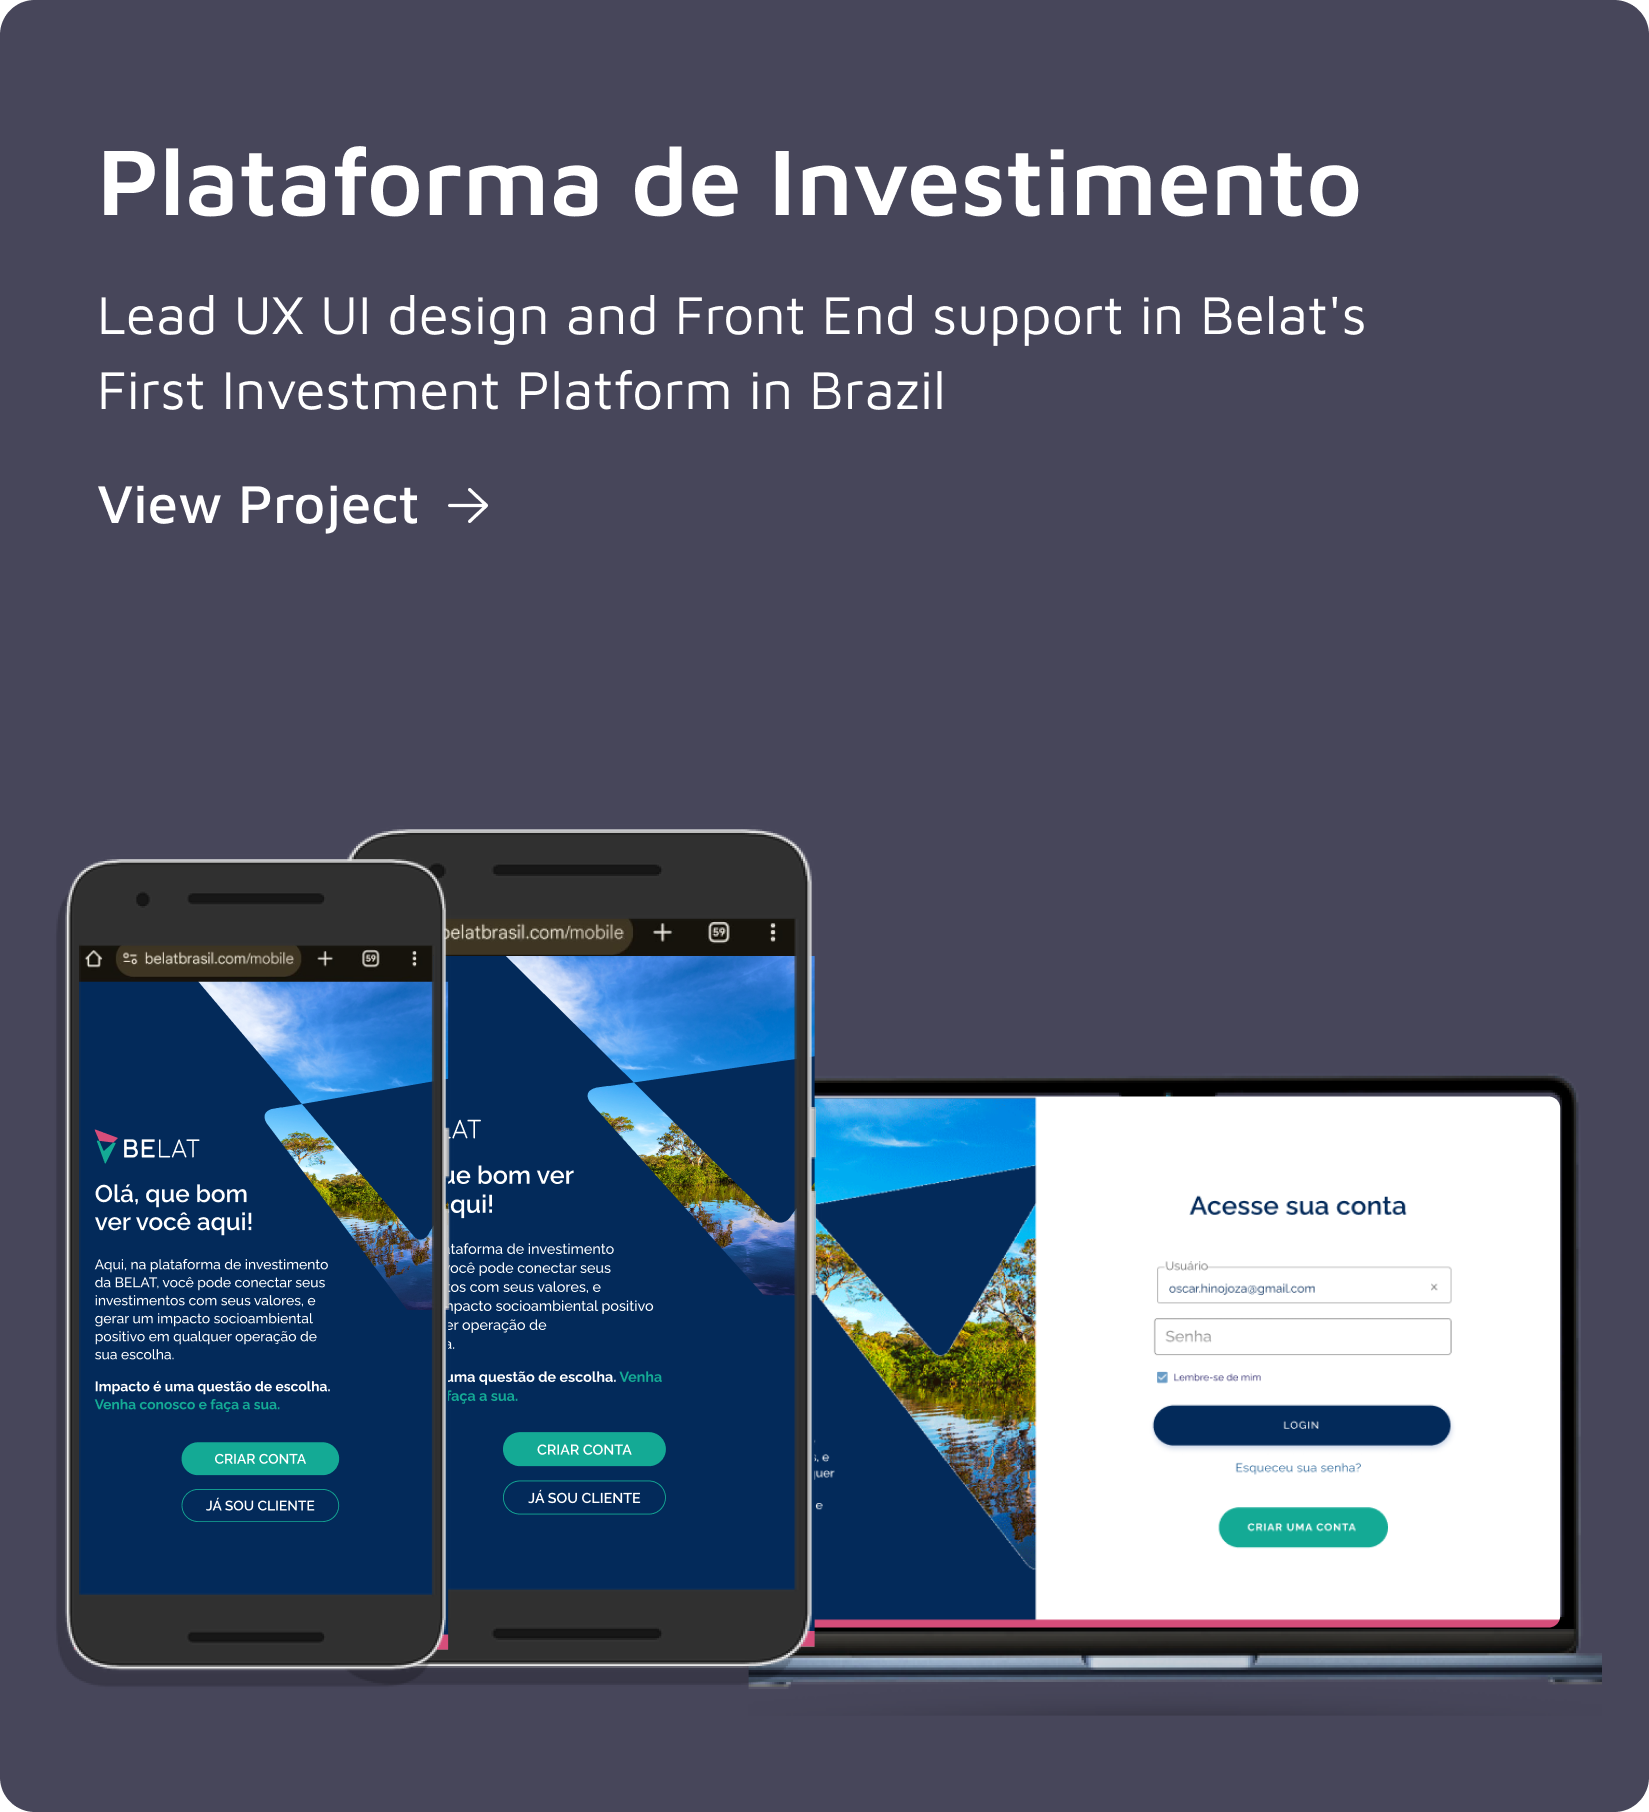
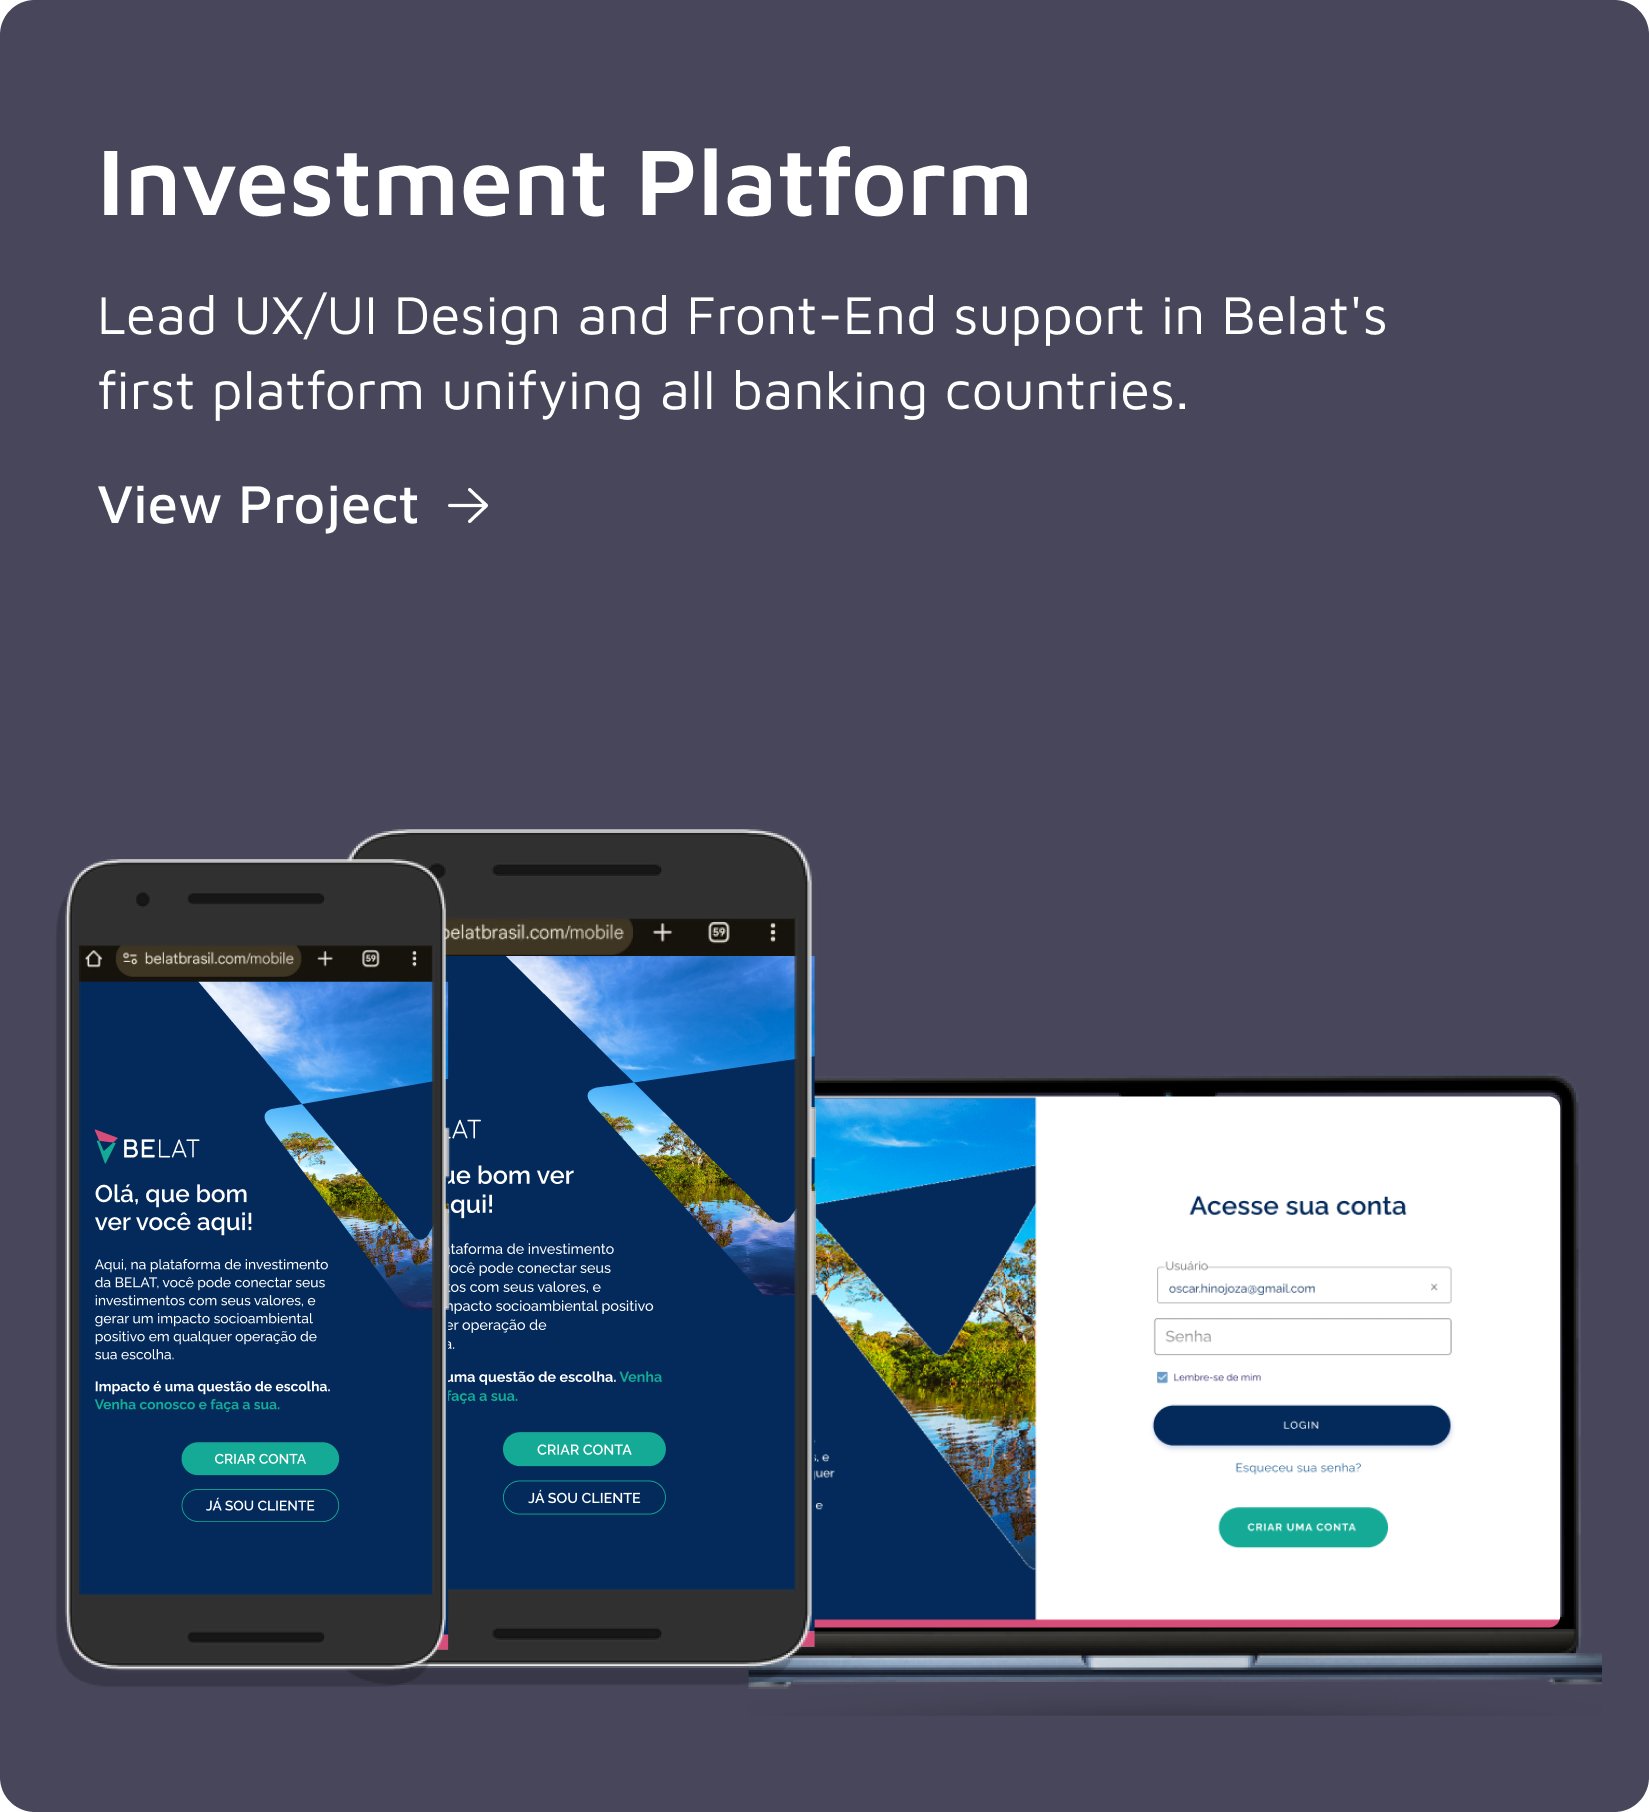
fixed projects details

Changed region(s): [[0.0619, 0.1545, 0.8351, 0.2472], [0.0619, 0.0618, 0.8351, 0.1236], [0.6804, 0.2163, 0.7113, 0.2472]]

diff --git a/src/plataformaBelat.html b/src/plataformaBelat.html
@@ -72,7 +72,7 @@
         <div class="row">
             <div class= "col-lg-11 col-12">  
                 <h6 ><a href="./index.html" ><i class="bi bi-arrow-left" ></i> Back</a></h6>
-                <h1><span style="color:#ffc200;">P</span>LATAFORMA DE <span style="color:#ffc200;">I</span>NVESTIMENTO</h1>
+                <h1><span style="color:#ffc200;">I</span>NVESTIMENT <span style="color:#ffc200;">P</span>LATFORM</h1>
                 <h5>UX UI Design<span style="color:#ffc200;"> | </span>UX Research<span style="color:#ffc200;"> | </span>Front End</h5>
             </div>
         </div>
@@ -85,23 +85,23 @@
             <div class="row">
                 <div class="col-12">
                     <p class="project-description mt-4">
-                        First Investment Platform for Belat Bank in Brazil. In this project, I collaborated with teams from both Chile and Brazil. I led the <strong>UX Design</strong> area, focusing on research, user profiles, flows, prototyping, user journey mapping, and conducted iterations and research with internal and external clients, including potential platform users.
+                        The first platform uniting all Belat banking countries. In this project,  I collaborated with investment, operations, and executive teams across Chile, Brazil, Argentina, and Uruguay. I led the <strong>UX Design</strong> area, focusing on research, user profiles, flows, prototyping, user journey mapping, and conducted iterations and research with internal and external clients, including potential platform users.
                     </p>
 
                     <p class="project-description">
-                        For <strong>UI Design</strong>, we worked on the graphic line and design materials alongside a team of designers to ensure alignment with the brand’s identity. I also supported the frontend development.
+                        For <strong>UI Design</strong>, I worked on the graphic line and design materials alongside a team of designers to ensure alignment with the brand’s identity. I also supported the frontend development.
                     </p>
 
-                    <p><strong>Platform:</strong> <a href="https://belatbrasil.com/" target="_blank">BelatBasil</a></p>
+                    <p><strong>Platform:</strong> <a href="https://belatbrasil.com/" target="_blank">BelatBasil.</a> The global platform is currently under development, so if you would like to know more details, please <a href="https://www.linkedin.com/in/mariaignaciasilva/" target="_blank" class="btn-secundary">Contact me</a></p>
+                    <p><strong>Prototype:</strong> View Interactive Prototype <a href="https://www.figma.com/proto/sqZ8bd0KzAouQx2aR2hyhH/Plataforma-inversiones-prototipo?node-id=176-897&p=f&t=kUB3pBllbxiLGfnX-0&scaling=scale-down&content-scaling=fixed&page-id=176%3A48&starting-point-node-id=176%3A897" target="_blank" class="btn-secundary">Here</a></p>
                     <p><strong>Methodology:</strong> Agile</p>
                     <p><strong>Duration:</strong> 10 months</p>
                     <p><strong>UX/UI Tools:</strong> Figma, Adobe</p>
                     <p><strong>Frontend:</strong> Vue.js, Vuetify, Git, GitHub</p>
                     <p><strong>Backend:</strong> PHP</p>
                     <p><strong>Test:</strong> Jest</p>
-                    <p><strong>Development Collaboration:</strong> Worked with external company Boostech</p>
-                    <p><strong>Graphic Design Collaboration:</strong> Worked with external company Ludus</p>
-                    <p><strong>Future:</strong> Basis for developing a single investment portal (Chile, Argentina, Uruguay, Brazil)</p>
+                    <p><strong>Development Collaboration:</strong> Worked with external company Fintecheando</p>
+                    <p><strong>Future:</strong> Create a global platform for companies. </p>
                     <p class="project-additional-info mt-4">
                         The information is not public, so if you would like to know more details, please <a href="https://www.linkedin.com/in/mariaignaciasilva/" target="_blank" class="btn-secundary ">Contact me</a>
                     </p>

diff --git a/src/index.html b/src/index.html
@@ -111,7 +111,7 @@
       <div class="container">
           <div class="row">
               <div class="col-lg-6 col-md-6 col-12">
-                  <a href="./plataformaBrasil.html"><img class="img-fluid" src="images/project/Plataforma Brasil.png" alt="Plataforma Brasil project"></a>
+                  <a href="./plataformaBelat.html"><img class="img-fluid" src="images/project/Plataforma Brasil.png" alt="Plataforma Brasil project"></a>
               </div>
               <div class="col-lg-6 col-md-6 col-12">
                   <a href="./belatWebsite.html"><img class="img-fluid" src="images/project/belat website.png" alt="Belat website project"></a>
